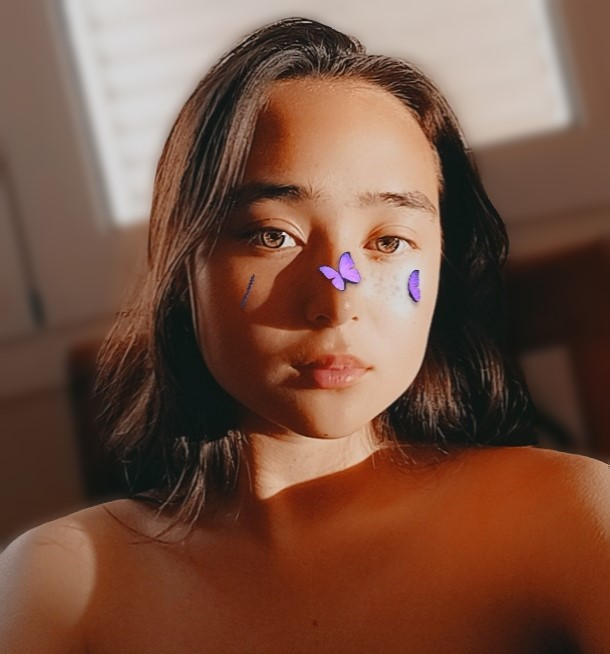
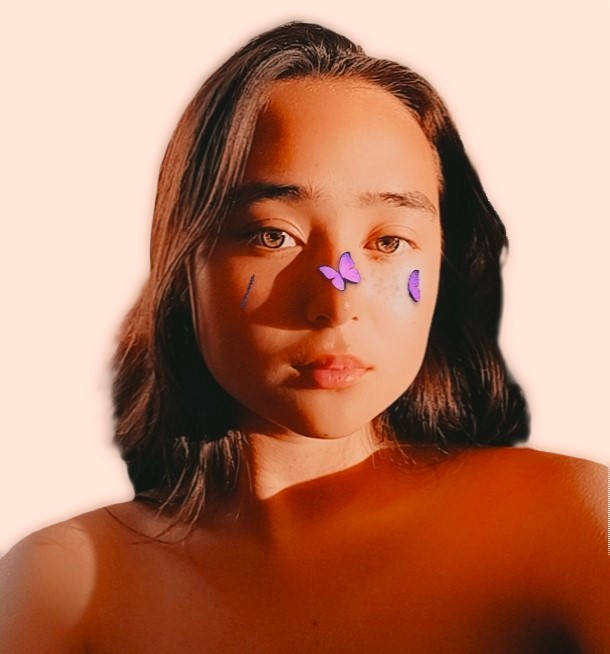
changed intro background image

diff --git a/index.html b/index.html
@@ -18,17 +18,13 @@
 
 <body>
 	<!--**Navigation Section-->
-	<div>
-		<div class="row">
-			<div class="col-md-4">
-					<ul class="navigation" style="text-align: center;">
-						<a href="#home"><li>Home</li></a>
-						<a href="#about"><li>About</li></a>
-						<a href="#contact"><li>Contact Us</li></a>
-					</ul>
-			</div>
-		</div>
-	</div>
+	
+	<ul class="navigation" style="text-align: center;">
+		<a href="#home"><li>Home</li></a>
+		<a href="#about"><li>About</li></a>
+		<a href="#contact"><li>Contact Us</li></a>
+	</ul>
+	
 	
 	<!--**To display the navigation next to each other instead of a list, style the elements in the css as .navigation li{} and inside the curly bracket, insert display: in-line block; -->
 	<div class="div-break">

diff --git a/css/myprincess.css b/css/myprincess.css
@@ -27,7 +27,7 @@ body{
 
 /*Intro Section*/
 .colored-background{
-	background: url(../img/butterfly.jpg);
+	background: url(../img/mountainbackground.jpg);
 	background-size: auto;
 	background-size: 100%;
 }
@@ -39,7 +39,7 @@ body{
 }
 .centered-box img{
 	width: 300px;
-	border-radius: 70%;
+    border-radius: 50%;
 }
 
 /*About Section*/
